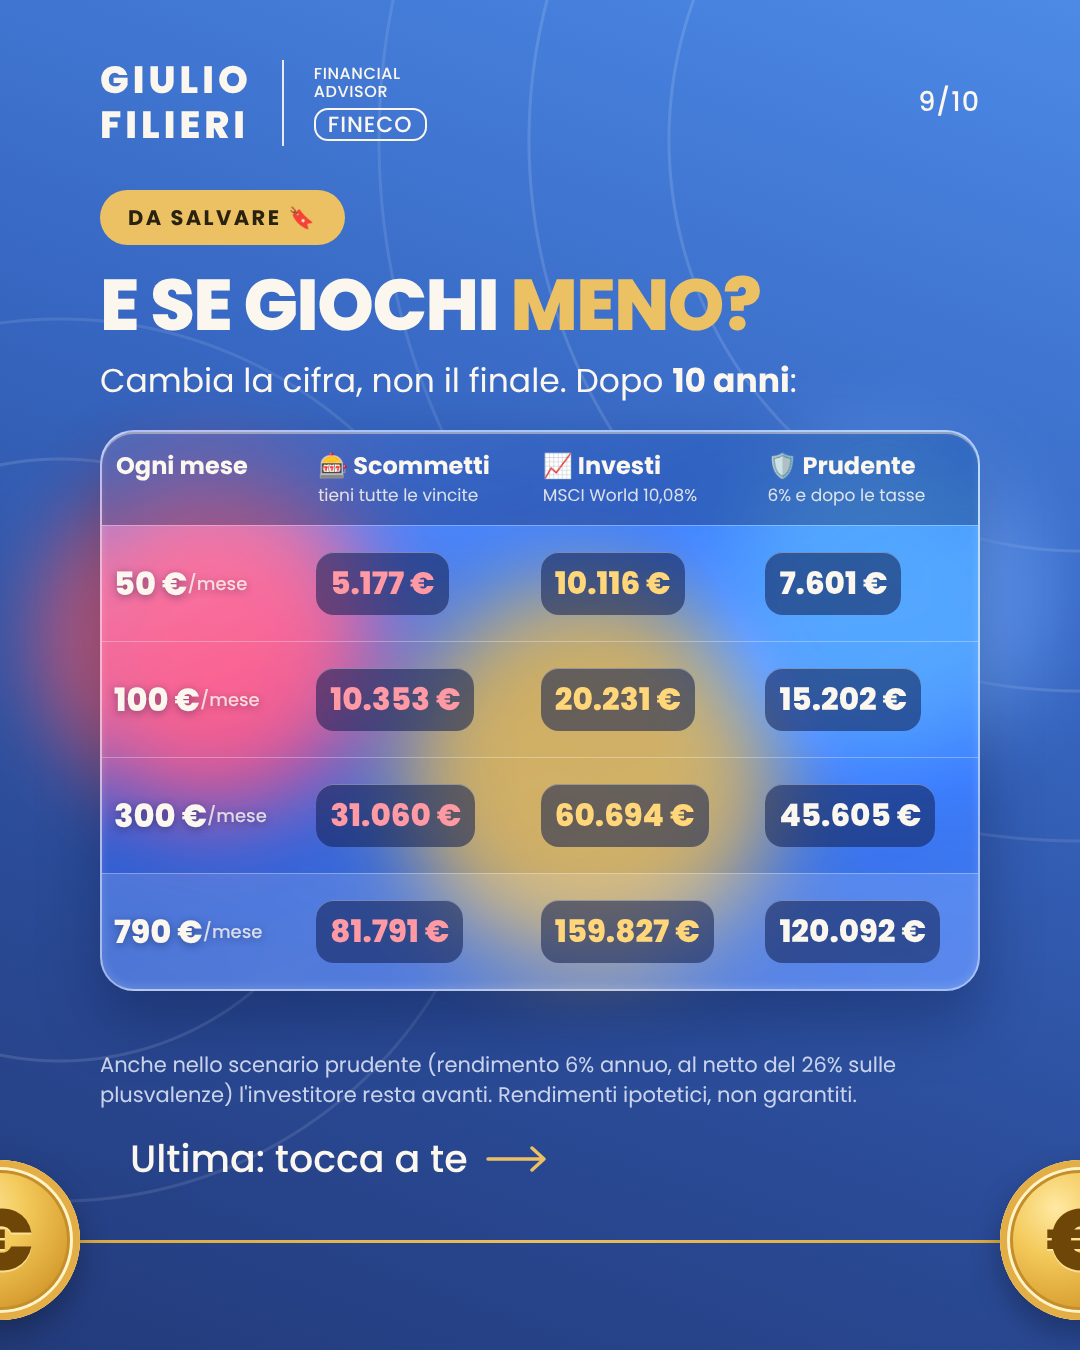
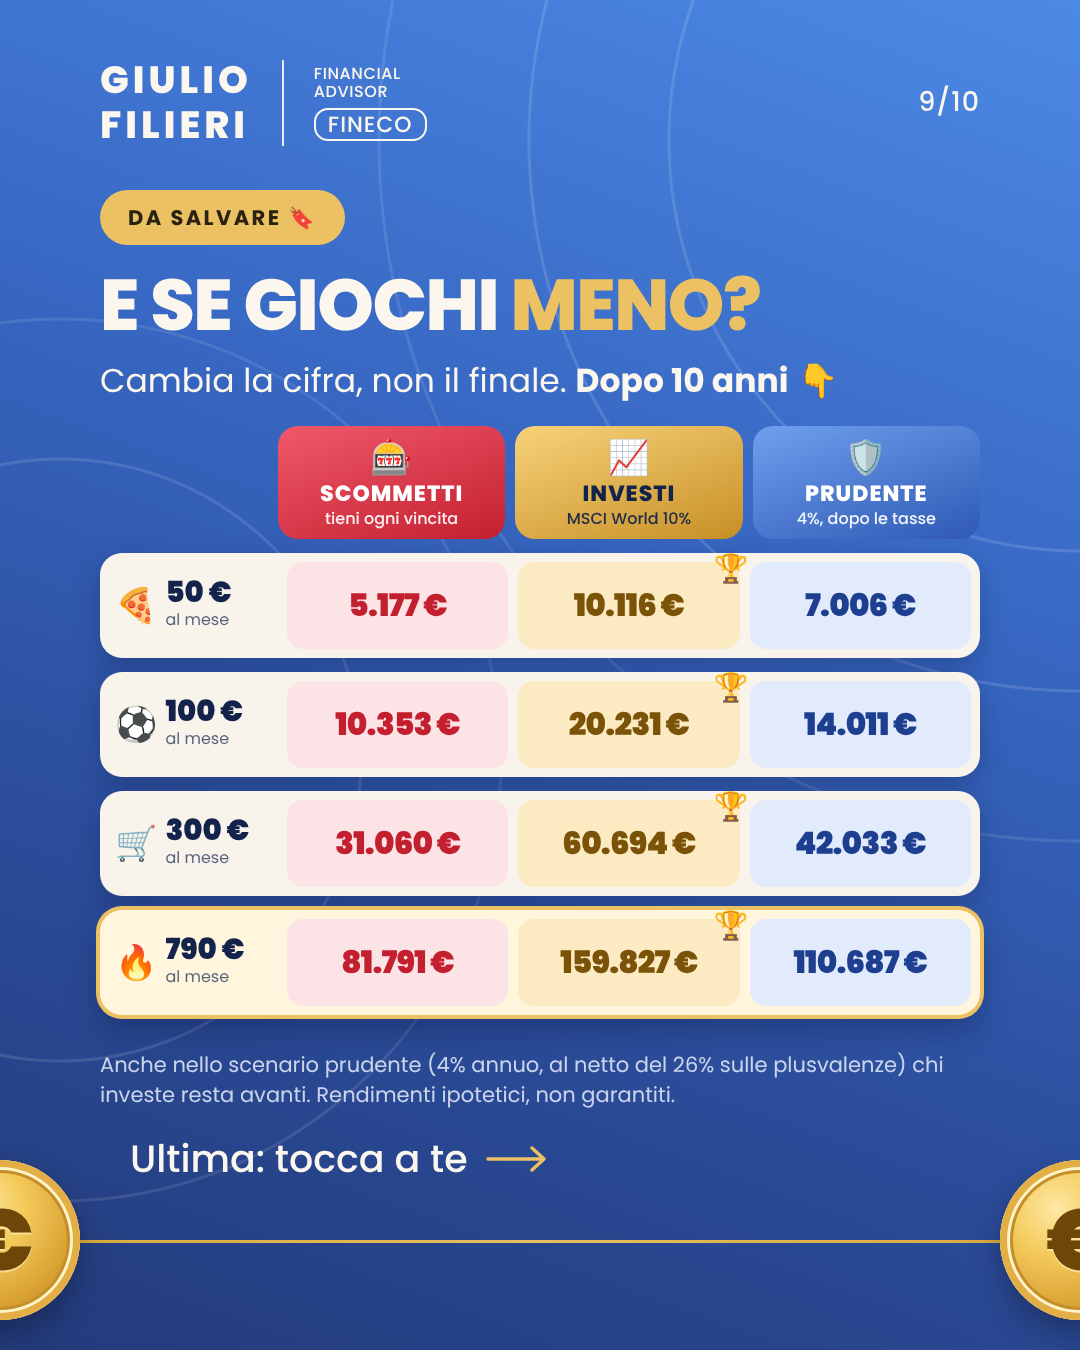
Carosello: nuovo titolo di apertura, tabella slide 9 rifatta, scenario prudente al 4%
Claude-Session: https://claude.ai/code/session_01VXFpsHmJ8FHR4UbCV1HPKM

diff --git a/caroselli/scommesse-vs-investimento/carosello.html b/caroselli/scommesse-vs-investimento/carosello.html
@@ -316,6 +316,33 @@ h1{position:absolute;left:100px;right:80px;font-weight:800;line-height:1.02;lett
 .r9>div{padding:26px 12px}
 .slide#s2 .photo-strip{height:240px}
 .slide#s2 .strip-txt{font-size:27px}
+
+/* ===== revisione 3: tabella slide 9 ===== */
+.t9b{display:flex;flex-direction:column;gap:12px;flex:none}
+.h9b,.r9b{display:grid;grid-template-columns:200px 1fr 1fr 1fr;gap:12px;align-items:stretch}
+.hb{border-radius:20px;padding:12px 8px 10px;text-align:center;font-weight:800;font-size:22px;letter-spacing:1px;color:#fff;line-height:1.15}
+.hb span{display:block;font-size:34px;margin-bottom:4px}
+.hb small{display:block;font-weight:500;font-size:16px;letter-spacing:0;opacity:.92;margin-top:4px}
+.hb.bet{background:linear-gradient(160deg,#F0596A,#C3202F)}
+.hb.inv{background:linear-gradient(160deg,#F7D27A,#C78F25);color:var(--navy)}
+.hb.pru{background:linear-gradient(160deg,#6FA0EE,#2F59B5)}
+.r9b{background:var(--cream);border-radius:22px;padding:10px;box-shadow:0 10px 24px rgba(10,20,60,.25)}
+.r9b.hot{background:#FFF6DD;box-shadow:0 0 0 4px var(--gold),0 14px 30px rgba(10,20,60,.35)}
+.m9{display:flex;align-items:center;gap:12px;color:var(--navy);padding-left:6px}
+.e9{font-size:40px}
+.m9 b{display:block;font-weight:900;font-size:32px;line-height:1}
+.m9 small{font-size:16px;opacity:.7}
+.c9{position:relative;border-radius:16px;display:flex;align-items:center;justify-content:center;font-weight:900;font-size:32px;padding:18px 4px;white-space:nowrap;letter-spacing:-.5px}
+.c9.bet{background:#FCE3E5;color:#C3202F}
+.c9.inv{background:#FBEAC2;color:#7A5208}
+.c9.pru{background:#E2EBFB;color:#1E3F8F}
+.c9 i{position:absolute;top:-14px;right:-8px;font-style:normal;font-size:28px}
+.h9b,.r9b{grid-template-columns:168px 1fr 1fr 1fr;gap:10px}
+.c9{font-size:29px;padding:16px 2px;letter-spacing:-.8px}
+.m9 b{font-size:29px} .e9{font-size:34px} .m9{gap:8px}
+.r9b{padding:9px}
+.c9{padding:24px 2px;font-size:31px} .t9b{gap:14px}
+.c9{padding:20px 2px}
 </style></head><body>
 
 <section class="slide blue" id="s1">
@@ -329,8 +356,8 @@ h1{position:absolute;left:100px;right:80px;font-weight:800;line-height:1.02;lett
   
   <div class="pill">SCOMMESSE VS BORSA · 10 ANNI</div>
   <div class="content">
-  <h1 class="t1">STESSI SOLDI<br>PER 10 ANNI.<br><span class="gold">UNO HA IL DOPPIO DELL'ALTRO.</span></h1>
-  <p class="lead">790 € al mese: <b>schedine, gratta e vinci e slot</b><br>contro <b>un investimento in Borsa</b>. Indovina chi vince.</p>
+  <h1 class="t1">LA SCHEDINA<br>TI STA COSTANDO<br><span class="gold" style="font-size:1.3em">78.000 €.</span></h1>
+  <p class="lead">Stessi 790 € al mese per 10 anni: <b>uno scommette, l'altro investe.</b><br>Alla fine uno ha <b class="gold">il doppio</b> dell'altro.</p>
   <div class="vs-wrap">
     <div class="vs-card">
       <img src="img/slot.jpg" style="object-position:50% 40%">
@@ -392,7 +419,7 @@ h1{position:absolute;left:100px;right:80px;font-weight:800;line-height:1.02;lett
   <div class="pill">LA REGOLA DEL BANCO</div>
   <div class="content">
   <h1 class="t-one">IL BANCO <span class="gold">VINCE SEMPRE.</span></h1>
-  <p class="lead">Ogni <b>100 €</b> giocati, in media te ne tornano <b class="gold">86</b>. Gli altri <b class="redt">14</b> restano al banco.</p>
+  <p class="lead">Ogni <b>100 €</b> giocati, in media te ne tornano <b class="gold">86</b>.<br>Gli altri <b class="redt">14</b> restano al banco.</p>
   <div class="dots-wrap">
     <div class="dots"><i class=""></i><i class=""></i><i class=""></i><i class=""></i><i class=""></i><i class=""></i><i class=""></i><i class=""></i><i class=""></i><i class=""></i><i class=""></i><i class=""></i><i class=""></i><i class=""></i><i class=""></i><i class=""></i><i class=""></i><i class=""></i><i class=""></i><i class=""></i><i class=""></i><i class=""></i><i class=""></i><i class=""></i><i class=""></i><i class=""></i><i class=""></i><i class=""></i><i class=""></i><i class=""></i><i class=""></i><i class=""></i><i class=""></i><i class=""></i><i class=""></i><i class=""></i><i class=""></i><i class=""></i><i class=""></i><i class=""></i><i class=""></i><i class=""></i><i class=""></i><i class=""></i><i class=""></i><i class=""></i><i class=""></i><i class=""></i><i class=""></i><i class=""></i><i class=""></i><i class=""></i><i class=""></i><i class=""></i><i class=""></i><i class=""></i><i class=""></i><i class=""></i><i class=""></i><i class=""></i><i class=""></i><i class=""></i><i class=""></i><i class=""></i><i class=""></i><i class=""></i><i class=""></i><i class=""></i><i class=""></i><i class=""></i><i class=""></i><i class=""></i><i class=""></i><i class=""></i><i class=""></i><i class=""></i><i class=""></i><i class=""></i><i class=""></i><i class=""></i><i class=""></i><i class=""></i><i class=""></i><i class=""></i><i class=""></i><i class=""></i><i class="lost"></i><i class="lost"></i><i class="lost"></i><i class="lost"></i><i class="lost"></i><i class="lost"></i><i class="lost"></i><i class="lost"></i><i class="lost"></i><i class="lost"></i><i class="lost"></i><i class="lost"></i><i class="lost"></i><i class="lost"></i></div>
     <div class="dots-leg">
@@ -585,14 +612,37 @@ h1{position:absolute;left:100px;right:80px;font-weight:800;line-height:1.02;lett
   <div class="pill">DA SALVARE 🔖</div>
   <div class="content">
   <h1 class="t-one">E SE GIOCHI <span class="gold">MENO?</span></h1>
-  <p class="lead">Cambia la cifra, non il finale. Dopo <b>10 anni</b>:</p>
-  <div class="t9wrap"><div class="blob b1"></div><div class="blob b2"></div><div class="blob b3"></div>
-  <div class="t9">
-    <div class="h9"><div>Ogni mese</div><div>🎰 Scommetti<small>tieni tutte le vincite</small></div><div>📈 Investi<small>MSCI World 10,08%</small></div><div>🛡 Prudente<small>6% e dopo le tasse</small></div></div>
-    <div class="r9"><div class="m">50 €<small>/mese</small></div><div class="v red"><span>5.177 €</span></div><div class="v gold"><span>10.116 €</span></div><div class="v"><span>7.601 €</span></div></div><div class="r9"><div class="m">100 €<small>/mese</small></div><div class="v red"><span>10.353 €</span></div><div class="v gold"><span>20.231 €</span></div><div class="v"><span>15.202 €</span></div></div><div class="r9"><div class="m">300 €<small>/mese</small></div><div class="v red"><span>31.060 €</span></div><div class="v gold"><span>60.694 €</span></div><div class="v"><span>45.605 €</span></div></div><div class="r9"><div class="m">790 €<small>/mese</small></div><div class="v red"><span>81.791 €</span></div><div class="v gold"><span>159.827 €</span></div><div class="v"><span>120.092 €</span></div></div>
-  </div></div>
-  <p class="note light">Anche nello scenario prudente (rendimento 6% annuo, al netto del 26% sulle plusvalenze) l'investitore resta avanti.
-  Rendimenti ipotetici, non garantiti.</p>
+  <p class="lead">Cambia la cifra, non il finale. <b>Dopo 10 anni</b> 👇</p>
+  <div class="t9b">
+    <div class="h9b">
+      <div></div>
+      <div class="hb bet"><span>🎰</span>SCOMMETTI<small>tieni ogni vincita</small></div>
+      <div class="hb inv"><span>📈</span>INVESTI<small>MSCI World 10%</small></div>
+      <div class="hb pru"><span>🛡</span>PRUDENTE<small>4%, dopo le tasse</small></div>
+    </div>
+    <div class="r9b">
+      <div class="m9"><span class="e9">🍕</span><div><b>50 €</b><small>al mese</small></div></div>
+      <div class="c9 bet">5.177 €</div>
+      <div class="c9 inv">10.116 €<i>🏆</i></div>
+      <div class="c9 pru">7.006 €</div>
+    </div><div class="r9b">
+      <div class="m9"><span class="e9">⚽</span><div><b>100 €</b><small>al mese</small></div></div>
+      <div class="c9 bet">10.353 €</div>
+      <div class="c9 inv">20.231 €<i>🏆</i></div>
+      <div class="c9 pru">14.011 €</div>
+    </div><div class="r9b">
+      <div class="m9"><span class="e9">🛒</span><div><b>300 €</b><small>al mese</small></div></div>
+      <div class="c9 bet">31.060 €</div>
+      <div class="c9 inv">60.694 €<i>🏆</i></div>
+      <div class="c9 pru">42.033 €</div>
+    </div><div class="r9b hot">
+      <div class="m9"><span class="e9">🔥</span><div><b>790 €</b><small>al mese</small></div></div>
+      <div class="c9 bet">81.791 €</div>
+      <div class="c9 inv">159.827 €<i>🏆</i></div>
+      <div class="c9 pru">110.687 €</div>
+    </div>
+  </div>
+  <p class="note light">Anche nello scenario prudente (4% annuo, al netto del 26% sulle plusvalenze) chi investe resta avanti. Rendimenti ipotetici, non garantiti.</p>
 </div>
   <div class="gline" style="top:1240px"></div>
 <div class="coin" style="left:-80px;top:1160px"><span>€</span></div>

diff --git a/caroselli/scommesse-vs-investimento/style.css b/caroselli/scommesse-vs-investimento/style.css
@@ -313,3 +313,30 @@ h1{position:absolute;left:100px;right:80px;font-weight:800;line-height:1.02;lett
 .r9>div{padding:26px 12px}
 .slide#s2 .photo-strip{height:240px}
 .slide#s2 .strip-txt{font-size:27px}
+
+/* ===== revisione 3: tabella slide 9 ===== */
+.t9b{display:flex;flex-direction:column;gap:12px;flex:none}
+.h9b,.r9b{display:grid;grid-template-columns:200px 1fr 1fr 1fr;gap:12px;align-items:stretch}
+.hb{border-radius:20px;padding:12px 8px 10px;text-align:center;font-weight:800;font-size:22px;letter-spacing:1px;color:#fff;line-height:1.15}
+.hb span{display:block;font-size:34px;margin-bottom:4px}
+.hb small{display:block;font-weight:500;font-size:16px;letter-spacing:0;opacity:.92;margin-top:4px}
+.hb.bet{background:linear-gradient(160deg,#F0596A,#C3202F)}
+.hb.inv{background:linear-gradient(160deg,#F7D27A,#C78F25);color:var(--navy)}
+.hb.pru{background:linear-gradient(160deg,#6FA0EE,#2F59B5)}
+.r9b{background:var(--cream);border-radius:22px;padding:10px;box-shadow:0 10px 24px rgba(10,20,60,.25)}
+.r9b.hot{background:#FFF6DD;box-shadow:0 0 0 4px var(--gold),0 14px 30px rgba(10,20,60,.35)}
+.m9{display:flex;align-items:center;gap:12px;color:var(--navy);padding-left:6px}
+.e9{font-size:40px}
+.m9 b{display:block;font-weight:900;font-size:32px;line-height:1}
+.m9 small{font-size:16px;opacity:.7}
+.c9{position:relative;border-radius:16px;display:flex;align-items:center;justify-content:center;font-weight:900;font-size:32px;padding:18px 4px;white-space:nowrap;letter-spacing:-.5px}
+.c9.bet{background:#FCE3E5;color:#C3202F}
+.c9.inv{background:#FBEAC2;color:#7A5208}
+.c9.pru{background:#E2EBFB;color:#1E3F8F}
+.c9 i{position:absolute;top:-14px;right:-8px;font-style:normal;font-size:28px}
+.h9b,.r9b{grid-template-columns:168px 1fr 1fr 1fr;gap:10px}
+.c9{font-size:29px;padding:16px 2px;letter-spacing:-.8px}
+.m9 b{font-size:29px} .e9{font-size:34px} .m9{gap:8px}
+.r9b{padding:9px}
+.c9{padding:24px 2px;font-size:31px} .t9b{gap:14px}
+.c9{padding:20px 2px}

diff --git a/caroselli/scommesse-vs-investimento/build.py b/caroselli/scommesse-vs-investimento/build.py
@@ -12,7 +12,7 @@ VINCITE = 135.8e9       # ADM, Bilancio 2024: vincite 2024
 SPESA = 21.5e9          # ADM, Bilancio 2024: spesa effettiva (perdite)
 GIOCATORI = 16.6e6      # Istat: italiani che hanno giocato con vincita in denaro nel 2024
 R_MSCI = 0.1008         # MSCI World (EUR) net, annualizzato 10 anni al 30/06/2025
-R_PRUD = 0.06           # scenario prudente
+R_PRUD = 0.04           # scenario prudente
 ANNI = 10
 TASSA = 0.26
 
@@ -104,8 +104,8 @@ S = []
 # 1 — HOOK
 S.append(slide(1, "blue", f"""
   <div class="pill">SCOMMESSE VS BORSA · 10 ANNI</div>
-  <h1 class="t1" style="top:262px">STESSI SOLDI<br>PER 10 ANNI.<br><span class="gold">UNO HA IL DOPPIO DELL'ALTRO.</span></h1>
-  <p class="lead" style="top:600px">{num(MESE)} € al mese: <b>schedine, gratta e vinci e slot</b><br>contro <b>un investimento in Borsa</b>. Indovina chi vince.</p>
+  <h1 class="t1" style="top:262px">LA SCHEDINA<br>TI STA COSTANDO<br><span class="gold" style="font-size:1.3em">78.000 €.</span></h1>
+  <p class="lead" style="top:600px">Stessi {num(MESE)} € al mese per 10 anni: <b>uno scommette, l'altro investe.</b><br>Alla fine uno ha <b class="gold">il doppio</b> dell'altro.</p>
   <div class="vs-wrap">
     <div class="vs-card">
       <img src="img/slot.jpg" style="object-position:50% 40%">
@@ -145,7 +145,7 @@ S.append(slide(3, "blue", f"""
   <div class="bgphoto"><img src="img/roulette.jpg"></div>
   <div class="pill">LA REGOLA DEL BANCO</div>
   <h1 class="t-one" style="top:262px">IL BANCO <span class="gold">VINCE SEMPRE.</span></h1>
-  <p class="lead" style="top:480px">Ogni <b>100 €</b> giocati, in media te ne tornano <b class="gold">86</b>. Gli altri <b class="redt">14</b> restano al banco.</p>
+  <p class="lead" style="top:480px">Ogni <b>100 €</b> giocati, in media te ne tornano <b class="gold">86</b>.<br>Gli altri <b class="redt">14</b> restano al banco.</p>
   <div class="dots-wrap" style="top:625px">
     <div class="dots">{dots}</div>
     <div class="dots-leg">
@@ -292,21 +292,31 @@ S.append(slide(8, "cream", f"""
 """, "Scorri: e se giochi meno?"))
 
 # 9 — TABELLA SCENARI (salvabile)
+EMO9 = {50: "🍕", 100: "⚽", 300: "🛒", MESE: "🔥"}
 trs9 = ""
 for m in (50, 100, 300, MESE):
-    s = scen(m)
-    trs9 += f'<div class="r9"><div class="m">{num(m)} €<small>/mese</small></div><div class="v red"><span>{eur(s["g"])}</span></div><div class="v gold"><span>{eur(s["a"])}</span></div><div class="v"><span>{eur(s["pn"])}</span></div></div>'
+    s9 = scen(m)
+    hot = " hot" if m == MESE else ""
+    trs9 += f"""<div class="r9b{hot}">
+      <div class="m9"><span class="e9">{EMO9[m]}</span><div><b>{num(m)} €</b><small>al mese</small></div></div>
+      <div class="c9 bet">{eur(s9["g"])}</div>
+      <div class="c9 inv">{eur(s9["a"])}<i>🏆</i></div>
+      <div class="c9 pru">{eur(s9["pn"])}</div>
+    </div>"""
 S.append(slide(9, "blue", f"""
   <div class="pill">DA SALVARE 🔖</div>
   <h1 class="t-one" style="top:262px">E SE GIOCHI <span class="gold">MENO?</span></h1>
-  <p class="lead" style="top:478px">Cambia la cifra, non il finale. Dopo <b>10 anni</b>:</p>
-  <div class="t9wrap"><div class="blob b1"></div><div class="blob b2"></div><div class="blob b3"></div>
-  <div class="t9">
-    <div class="h9"><div>Ogni mese</div><div>🎰 Scommetti<small>tieni tutte le vincite</small></div><div>📈 Investi<small>MSCI World 10,08%</small></div><div>🛡 Prudente<small>6% e dopo le tasse</small></div></div>
+  <p class="lead">Cambia la cifra, non il finale. <b>Dopo 10 anni</b> 👇</p>
+  <div class="t9b">
+    <div class="h9b">
+      <div></div>
+      <div class="hb bet"><span>🎰</span>SCOMMETTI<small>tieni ogni vincita</small></div>
+      <div class="hb inv"><span>📈</span>INVESTI<small>MSCI World 10%</small></div>
+      <div class="hb pru"><span>🛡</span>PRUDENTE<small>4%, dopo le tasse</small></div>
+    </div>
     {trs9}
-  </div></div>
-  <p class="note light" style="top:1060px">Anche nello scenario prudente (rendimento 6% annuo, al netto del 26% sulle plusvalenze) l'investitore resta avanti.
-  Rendimenti ipotetici, non garantiti.</p>
+  </div>
+  <p class="note light">Anche nello scenario prudente (4% annuo, al netto del 26% sulle plusvalenze) chi investe resta avanti. Rendimenti ipotetici, non garantiti.</p>
 """, "Ultima: tocca a te"))
 
 # 10 — CTA
